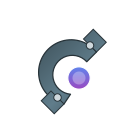
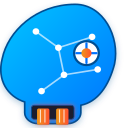
brand: replace all assets with new brain+neural+connector design
- icon.svg — new brain/NPU icon (replaces C-shape robot)
- lockup.svg — horizontal logo with new icon + wordmark
- Regenerated all PNGs: 64, 128, 192, 256, 512, 1024, android-chrome, apple-touch, banner, lockup
- USAGE.md updated with color palette + usage guidelines
- icon-dark.svg used for android/apple icons (rounded square bg)

diff --git a/brand/USAGE.md b/brand/USAGE.md
@@ -1,40 +1,42 @@
 # OpenCastor Brand Assets
 
-## Icon (square, no text)
+## Files
 
 | File | Size | Use |
-|------|------|-----|
-| `icon.svg` | Vector | Source file, scales to any size |
-| `icon-64.png` | 64x64 | Favicon, small UI |
-| `icon-128.png` | 128x128 | App icons, thumbnails |
-| `icon-256.png` | 256x256 | Medium icons |
-| `icon-512.png` | 512x512 | GitHub, social profile pics |
-| `icon-1024.png` | 1024x1024 | High-res, print |
-| `apple-touch-icon.png` | 180x180 | iOS home screen |
-| `android-chrome-192.png` | 192x192 | Android PWA |
-| `android-chrome-512.png` | 512x512 | Android PWA splash |
+|---|---|---|
+| `icon.svg` | vector | Source icon — transparent bg, scales to any size |
+| `lockup.svg` | vector | Full horizontal logo (icon + wordmark) |
+| `icon-64.png` | 64×64 | Favicon, small UI |
+| `icon-128.png` | 128×128 | App thumbnails, docs |
+| `icon-192.png` | 192×192 | PWA manifest, Android |
+| `icon-256.png` | 256×256 | macOS Dock, Windows taskbar |
+| `icon-512.png` | 512×512 | App stores, high-DPI |
+| `icon-1024.png` | 1024×1024 | Print, press kit |
+| `android-chrome-192.png` | 192×192 | Android Chrome / PWA (rounded square bg) |
+| `android-chrome-512.png` | 512×512 | Android Chrome splash (rounded square bg) |
+| `apple-touch-icon.png` | 180×180 | iOS home screen |
+| `banner-1500x500.png` | 1500×500 | Twitter/X banner |
+| `lockup-1200x400.png` | 1200×400 | OG image, GitHub social card, LinkedIn |
 
-## Lockup (icon + text, horizontal)
+## Dark-background variant
 
-| File | Size | Use |
-|------|------|-----|
-| `lockup.svg` | Vector | Source file |
-| `lockup-1200x400.png` | 1200x400 | GitHub social preview, Open Graph |
-| `banner-1500x500.png` | 1500x500 | Twitter/X header, LinkedIn banner |
+`site/assets/icon-dark.svg` — 512×512 icon with dark rounded square background  
+`site/assets/logo-white.svg` — horizontal logo with white/light wordmark for dark backgrounds
 
 ## Colors
 
 | Name | Hex | Use |
-|------|-----|-----|
-| Metal Dark | `#37474F` | Primary brand |
-| Metal Mid | `#607D8B` | Secondary |
-| Metal Light | `#CFD8DC` | Accents |
-| AI Blue | `#4285F4` | AI glow start |
-| AI Purple | `#9C27B0` | AI glow end |
-| Text Dark | `#263238` | Text, outlines |
+|---|---|---|
+| Brain Blue (light) | `#00c6ff` | Brain gradient start |
+| Brain Blue (deep) | `#0072ff` | Brain gradient end, neural edges |
+| Connector Orange | `#f09819` | Connector port gradient start |
+| Connector Red | `#ff512f` | Connector port gradient end |
+| Dark Navy | `#004e92` | Stroke, compass ring |
+| App Background | `#0d1117` | Icon dark bg |
 
-## Fonts
+## Usage Guidelines
 
-- **Open** — Roboto Light (300)
-- **Castor** — Roboto Bold (700)
-- Fallbacks: Inter, Helvetica Neue, sans-serif
+- Maintain minimum clear space equal to the height of the "O" in OpenCastor on all sides
+- Do not recolor the brain gradient or connector ports
+- `logo-white.svg` / `icon-dark.svg` for dark backgrounds; `lockup.svg` / `icon.svg` for light backgrounds
+- Do not stretch or distort — always scale proportionally
